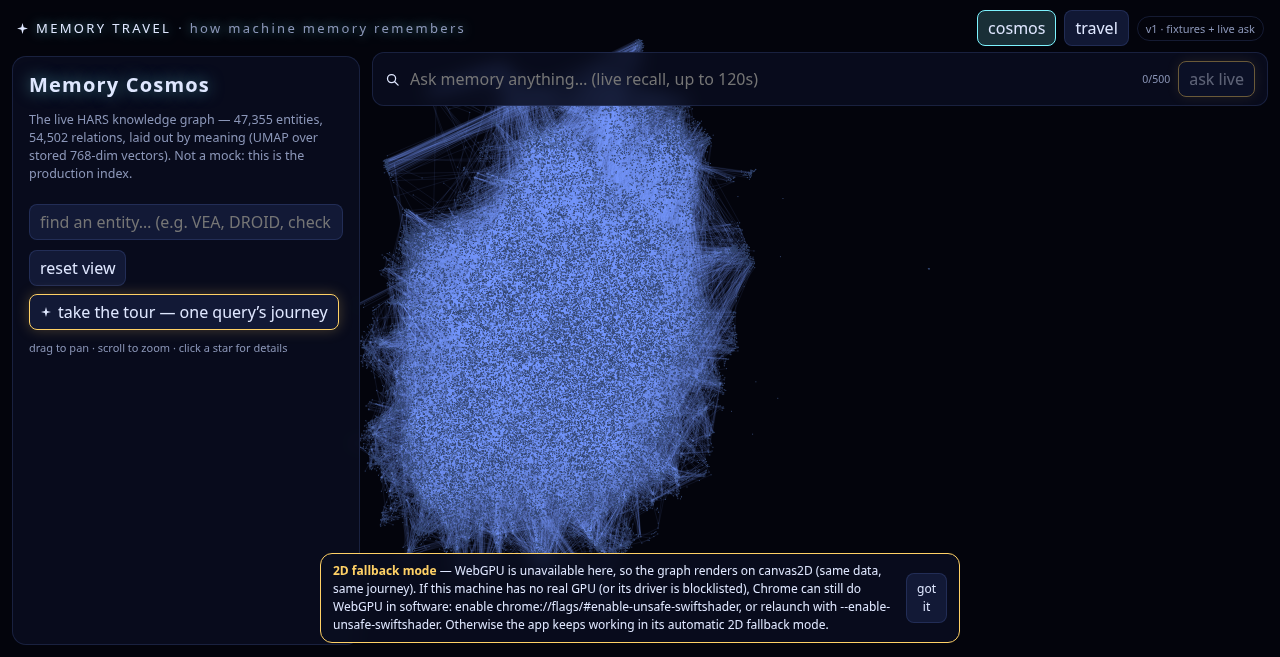
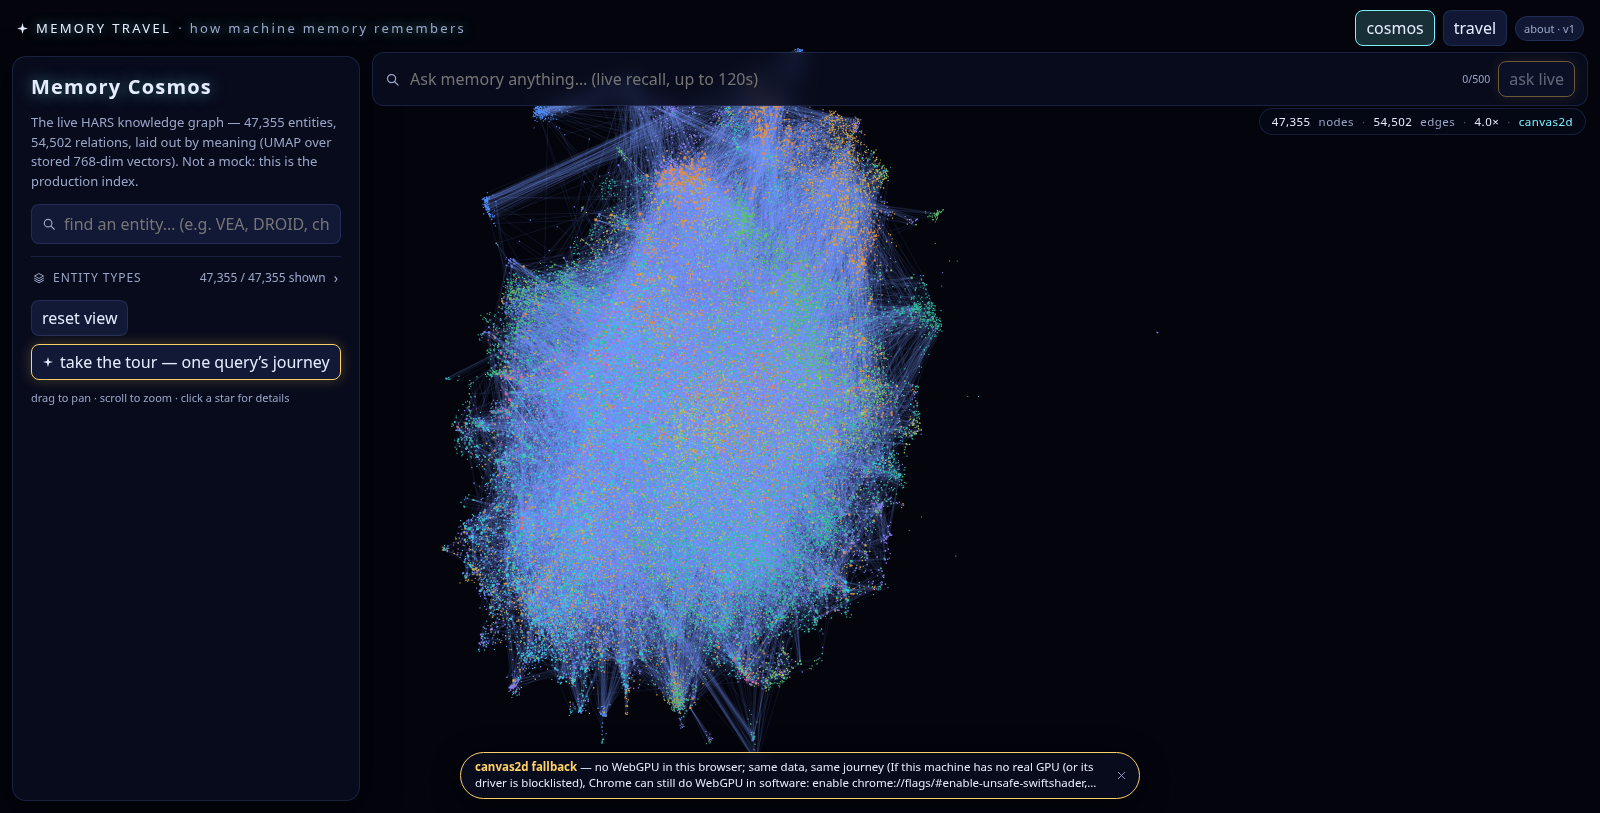
polish: design-system pass, HUD placement, docs + fresh screenshots
- raised --dim contrast (#9aa6c8) per the crisp-panels requirement, focus
  rings, themed scrollbars, selection colour, prefers-reduced-motion
- HUD moved under the query bar (was colliding with the top nav)
- responsive rules for 1440px and 1280px widths (panel/timeline widths,
  single-column legend + rerank lists)
- README: how to run (incl. /api proxy), feature list per view, honest
  verification note (Canvas2D headless-verified; WebGPU by code-reading)
- docs/screenshots refreshed (family-coloured starfield, search spotlight,
  travel reveal)

diff --git a/app/src/index.css b/app/src/index.css
@@ -1,7 +1,7 @@
 :root {
   --bg: #03040c;
-  --ink: #dfe7ff;
-  --dim: #8b96b8;
+  --ink: #e6ecff;
+  --dim: #9aa6c8; /* raised from #8b96b8: panels must stay crisp on black */
   --glass: rgba(10, 14, 32, 0.82);
   --line: rgba(120, 150, 255, 0.16);
   --accent: #7df3ff;
@@ -14,6 +14,25 @@ body {
   color: var(--ink);
   font-family: "Avenir Next", "Segoe UI", system-ui, sans-serif;
   overflow: hidden;
+  font-feature-settings: "tnum" 1;
+}
+::selection { background: rgba(125, 243, 255, 0.25); }
+* { scrollbar-width: thin; scrollbar-color: rgba(120, 150, 255, 0.35) transparent; }
+*::-webkit-scrollbar { width: 8px; height: 8px; }
+*::-webkit-scrollbar-thumb { background: rgba(120, 150, 255, 0.3); border-radius: 4px; }
+*::-webkit-scrollbar-track { background: transparent; }
+
+button:focus-visible, input:focus-visible, select:focus-visible, [tabindex]:focus-visible {
+  outline: 2px solid rgba(125, 243, 255, 0.55);
+  outline-offset: 1px;
+}
+
+@media (prefers-reduced-motion: reduce) {
+  *, *::before, *::after {
+    animation-duration: 0.01ms !important;
+    animation-iteration-count: 1 !important;
+    transition-duration: 0.01ms !important;
+  }
 }
 .app { position: fixed; inset: 0; }
 .canvaswrap { position: absolute; inset: 0; }
@@ -44,12 +63,13 @@ button:disabled { opacity: 0.4; cursor: default; }
   position: absolute; top: 56px; left: 12px; bottom: 12px; width: 348px;
   background: var(--glass); backdrop-filter: blur(8px);
   border: 1px solid var(--line); border-radius: 14px;
-  padding: 14px 16px; overflow-y: auto; z-index: 10;
+  padding: 16px 18px; overflow-y: auto; z-index: 10;
+  box-shadow: 0 10px 40px rgba(0, 0, 0, 0.35);
 }
 .travel .panel { width: 380px; }
 .panel h1 { font-size: 20px; margin: 0 0 4px; letter-spacing: 0.06em; text-shadow: 0 0 16px rgba(125, 243, 255, 0.5); }
 .panel h4 { margin: 10px 0 4px; font-size: 12px; color: var(--dim); text-transform: uppercase; letter-spacing: 0.08em; }
-.sub { font-size: 12.5px; color: var(--dim); line-height: 1.45; }
+.sub { font-size: 13px; color: var(--dim); line-height: 1.5; }
 .loading { color: var(--gold); font-size: 12px; }
 .search { width: 100%; margin-top: 8px; }
 .results { list-style: none; margin: 6px 0; padding: 0; }
@@ -85,7 +105,7 @@ li.moved { color: var(--gold); }
   overflow: hidden;
 }
 .timeline:focus-visible { border-color: var(--accent); outline: none; box-shadow: 0 0 0 2px rgba(125, 243, 255, 0.18); }
-.caption { font-size: 13px; line-height: 1.5; min-height: 44px; animation: fadeup 0.35s ease both; }
+.caption { font-size: 13.5px; line-height: 1.5; min-height: 44px; animation: fadeup 0.35s ease both; }
 .caption b { color: var(--gold); }
 @keyframes fadeup {
   from { opacity: 0; transform: translateY(5px); }
@@ -106,6 +126,24 @@ li.moved { color: var(--gold); }
 .scrub input[type="range"] { flex: 1; accent-color: var(--accent); }
 .dots { display: flex; gap: 4px; }
 .dot { width: 26px; height: 26px; border-radius: 50%; font-size: 11px; padding: 0; }
+
+/* ---- responsive: comfortable at 1280px, roomy above 1600px ---- */
+@media (max-width: 1440px) {
+  .panel { width: 320px; }
+  .travel .panel { width: 344px; }
+  .timeline { left: 344px; }
+  .querybar { left: 344px; }
+  .hits { max-height: 40vh; }
+}
+@media (max-width: 1280px) {
+  .panel { width: 292px; padding: 12px; }
+  .travel .panel { width: 312px; }
+  .timeline { left: 316px; }
+  .querybar { left: 316px; }
+  .cols { flex-direction: column; }
+  .dot { width: 22px; height: 22px; }
+  .legendbody { grid-template-columns: 1fr; }
+}
 .speed { min-width: 44px; font-variant-numeric: tabular-nums; font-size: 12px; }
 .speed.on, .speed { color: var(--ink); }
 
@@ -216,9 +254,9 @@ button { display: inline-flex; gap: 6px; align-items: center; justify-content: c
 .modebadge .ghostbtn { color: var(--dim); }
 .modebadge.raised { bottom: 132px; }
 
-/* ---- HUD chip: counts + zoom + backend, top-right over the canvas ---- */
+/* ---- HUD chip: counts + zoom + backend, under the query bar ---- */
 .hud {
-  position: absolute; top: 14px; right: 14px; z-index: 12;
+  position: absolute; top: 108px; right: 14px; z-index: 12;
   display: flex; gap: 8px; align-items: center;
   font-size: 11.5px; color: var(--dim);
   background: rgba(6, 9, 24, 0.72); backdrop-filter: blur(6px);

diff --git a/README.md b/README.md
@@ -5,7 +5,7 @@ through embeddings → vector hits → graph walk → BM25 → fusion → rerank
 context assembly → grounded answer. Cosmic look, zero mockups — every pixel is
 driven by real memory telemetry or the real index.
 
-## Run it (offline-first, zero live dependencies)
+## Run it
 
 ```bash
 cd app
@@ -13,18 +13,29 @@ npm install
 npm run dev      # → http://localhost:5173
 ```
 
-The demo serves only static files under `app/public/data/`. It survives memory
-service restarts — no live calls at runtime.
+`npm run dev` also proxies `/api/memory` → the memory bridge (see
+`vite.config.ts`), which is what powers **ask live**. Without the bridge the
+five fixture traces still play; without WebGPU the app falls back to Canvas2D
+automatically. `npm run build` is clean (`tsc -b && vite build`).
 
 ## Views
 
 - **Cosmos** — the full production index: 47,355 entities / 54,502 relations,
-  positioned by UMAP over the stored 768-dim vectors. Search, click for entity
-  info, pan/zoom. “Take the tour” jumps into Travel.
-- **Travel** — scripted playback of a saved recall trace (5 questions, picker
-  at top): scrubbable 8-stage timeline with eased camera flights, score bars,
-  before/after rerank lists, context blocks, and an extractive answer preview
-  whose citations fly back to their nodes.
+  positioned by UMAP over the stored 768-dim vectors, coloured by entity
+  family. Search-as-you-type spotlights matches and dims the rest, the legend
+  toggles families on/off, hovering shows a tooltip, clicking opens an info
+  card (fly-to, degree, description). HUD shows node/edge counts, zoom and the
+  active renderer. "Take the tour" jumps into Travel.
+- **Travel** — cinematic replay of a saved recall trace (5 fixtures + any live
+  answer, picker at top): query card, vector hits pulse in, BFS glow spreads
+  hop by hop, BM25 hits rain in, fusion stamps rank by rank, rerank moves flare
+  white, context stack builds up, answer facts link back to their source nodes.
+  Scrubbable 8-stage timeline with play/pause, 0.75–2× speed, per-stage
+  progress, keyboard (←/→, space, Home/End).
+- **ask live** — real `memory_recall` through the bridge with animated
+  (honestly labelled estimated) phase hints, cancel, and recent-question
+  history (localStorage). The live trace feeds the same Travel playback and
+  lights its hit nodes in Cosmos.
 
 ## Where the data came from (reproducible pipeline)
 
@@ -51,9 +62,13 @@ itself needs none of it.
 ## What works vs what's stubbed/honest-approximation
 
 - WORKS: full-graph cosmos render (WebGPU primary, automatic Canvas2D
-  fallback — verified with screenshots in `docs/screenshots/`), search + node info,
-  all 8 travel stages with real scores/latencies/ids, camera flights, trace
-  picker, autoplay + scrubber, `tsc` + `vite build` clean.
+  fallback — Canvas2D verified headless with screenshots in `docs/screenshots/`
+  and via CDP pixel sampling; WebGPU path verified by code-reading on this
+  machine, which exposes no GPU adapter to headless Chrome), search spotlight,
+  legend toggles, hover tooltips, HUD, all 8 travel stages with real
+  scores/latencies/ids and animated reveals, camera flights, trace picker,
+  autoplay + scrubber + speed, live ask with phases + history, `tsc` +
+  `vite build` clean, headless console clean.
 - APPROXIMATIONS (all labelled in-UI):
   - “Pre-rerank” order is reconstructed as dense-score order — the live
     response only exposes post-rerank `fused_chunks`. `docs/trace-api.md`
